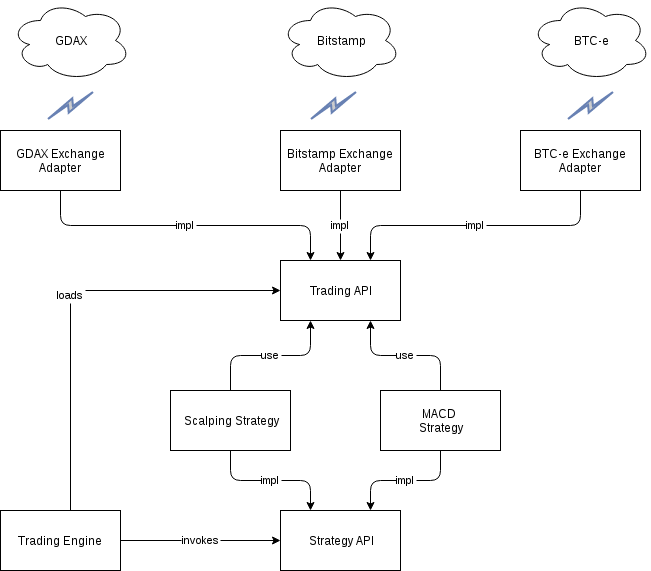
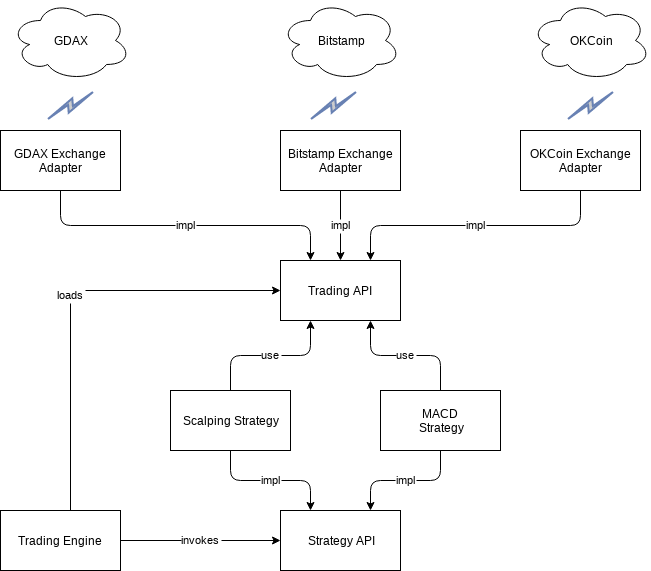
Updated diagrams to use OKCoin instead of BTC-e

diff --git a/README.md b/README.md
@@ -21,7 +21,7 @@ for more ideas.
 
 Exchange Adapters for using [Bitstamp](https://www.bitstamp.net), [Bitfinex](https://www.bitfinex.com),
 [OKCoin](https://www.okcoin.com/), [Huobi](https://www.huobi.com/), [GDAX](https://www.gdax.com/),
-[itBit](https://www.itbit.com/), [Kraken](https://www.kraken.com), [BTC-e](https://btc-e.com), and [Gemini](https://gemini.com/) 
+[itBit](https://www.itbit.com/), [Kraken](https://www.kraken.com), [Gemini](https://gemini.com/), and [BTC-e](https://btc-e.com) 
 are included. Feel free to improve these or contribute new adapters to the project; that would be shiny.
 
 The Trading API provides support for [limit orders](http://www.investopedia.com/terms/l/limitorder.asp)
